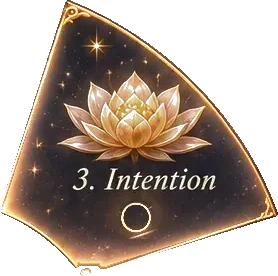
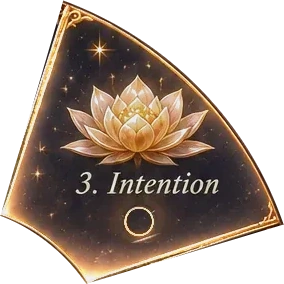
Ritual evening light: the thin evening bars measured from their own cross-section so the light meets them with no dark strip; edges anti-aliased; the warm haze beside the Moon's ring no longer mistaken for ornament; painted sparkles and highlights at the joints left as painted instead of blown out

diff --git a/public/app.js b/public/app.js
@@ -3284,7 +3284,7 @@ document.addEventListener('change',e=>{
 const R='/art/ritual/';
 // where each lit part sits on its painting [left, top, width, height], and the shape a touch must land in
 // each part's light (laid over the painting as light, so neighbours never cover one another) and its tick: [left, top, width, height]
-const POS={"m":[[[325,408,377,332],[429,598,168,168]],[[145,469,301,386],[186,766,168,168]],[[586,470,344,385],[681,766,168,168]]],"e":[[[171,415,278,276],[241,544,168,168]],[[388,390,250,236],[429,491,168,168]],[[576,415,278,276],[628,548,168,168]],[[140,646,232,254],[166,771,168,168]],[[653,634,228,266],[696,769,168,168]]]};
+const POS={"m":[[[323,408,381,333],[429,598,168,168]],[[144,467,304,388],[186,766,168,168]],[[583,468,347,387],[681,766,168,168]]],"e":[[[168,412,291,285],[241,544,168,168]],[[382,390,260,240],[429,491,168,168]],[[573,411,284,284],[628,548,168,168]],[[139,630,233,270],[166,771,168,168]],[[653,630,229,270],[696,769,168,168]]]};
 const POLY={m:[[[322,482],[400,442],[513,426],[626,442],[704,482],[588,722],[513,700],[438,722]],[[304,490],[250,545],[220,610],[200,700],[190,828],[215,872],[325,872],[346,792],[392,746],[438,724]],[[720,490],[792,530],[852,592],[902,672],[930,760],[938,828],[905,872],[705,872],[688,792],[640,746],[590,724]]],
  e:[[[390,415],[300,450],[228,515],[183,595],[170,630],[350,690],[385,650],[435,620]],[[390,415],[513,385],[635,415],[595,620],[513,628],[435,620]],[[635,415],[725,450],[797,515],[842,595],[852,632],[675,690],[640,650],[595,620]],[[170,630],[152,750],[175,850],[240,905],[335,920],[352,870],[337,800],[350,690]],[[852,632],[888,750],[872,860],[830,940],[690,935],[673,870],[689,800],[675,690]]]};
 const NAMES=['Horoscope','Whisper','Intention','Unwind','Reflection'],KEYS=['h','w','i','u','r'],TILES=['rth','rtw','rti','rtu','rtq'];
